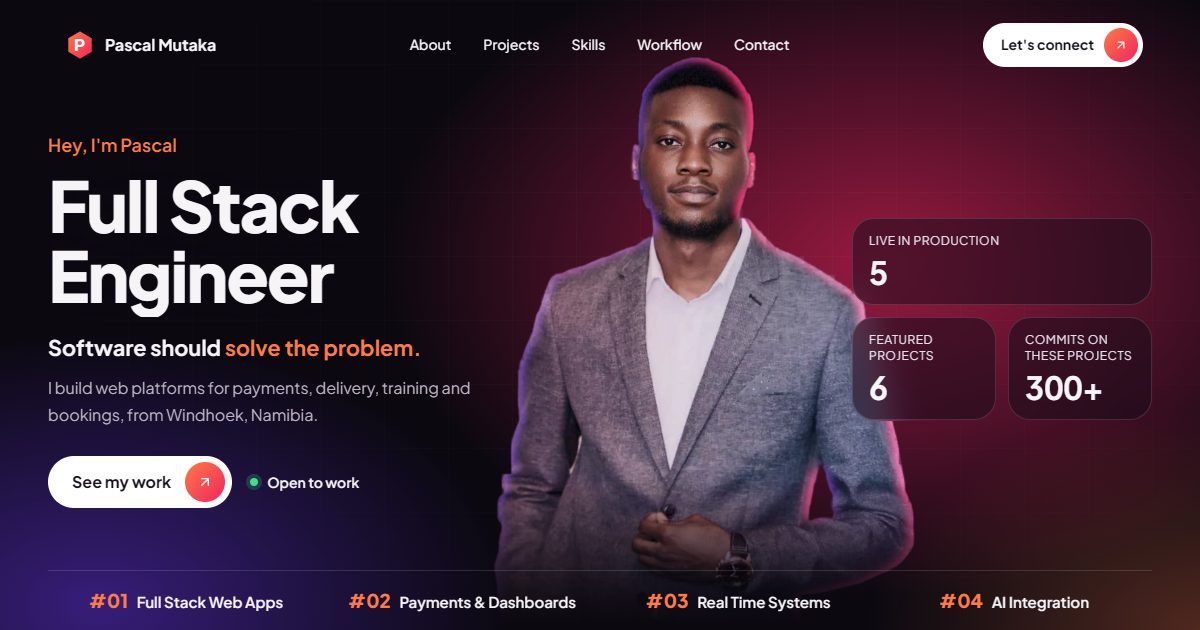
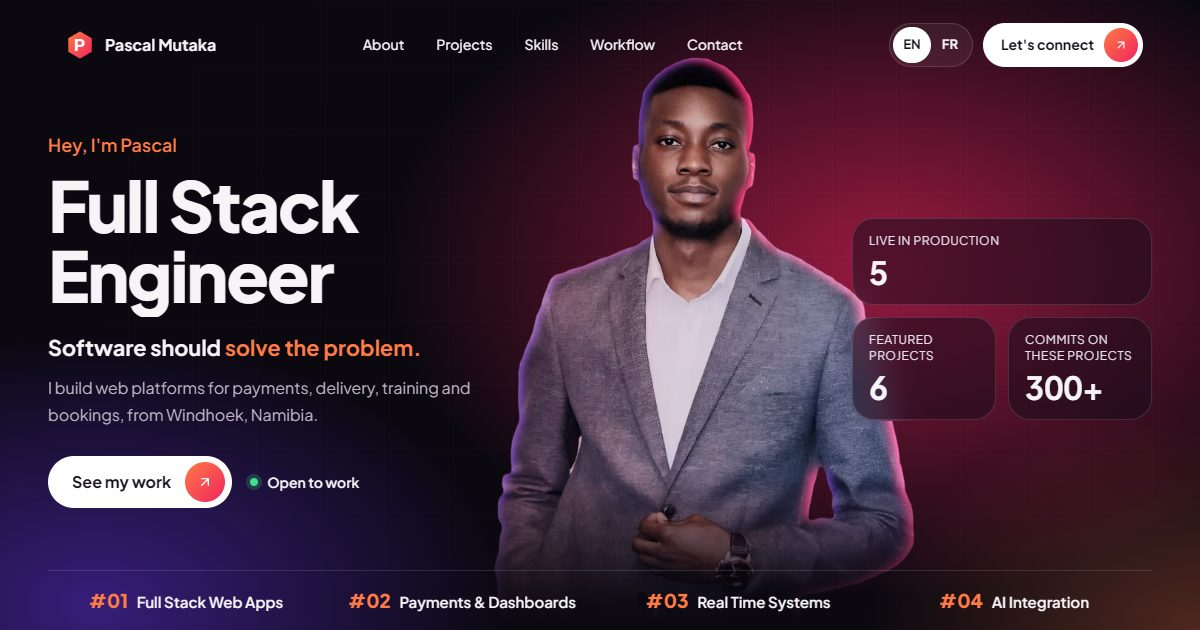
Upgrade portrait to 4K

Changed region(s): [[0.3083, 0.0603, 0.6783, 0.0905], [0.74, 0.0302, 0.8017, 0.1206]]

diff --git a/index.html b/index.html
@@ -15,7 +15,7 @@
   <link rel="preconnect" href="https://fonts.googleapis.com">
   <link rel="preconnect" href="https://fonts.gstatic.com" crossorigin>
   <link href="https://fonts.googleapis.com/css2?family=Plus+Jakarta+Sans:wght@400;500;600;700;800&display=swap" rel="stylesheet">
-  <link rel="preload" as="image" href="assets/img/portrait.webp">
+  <link rel="preload" as="image" href="assets/img/portrait.webp" imagesrcset="assets/img/portrait.webp 1152w, assets/img/portrait-1800.webp 1800w, assets/img/portrait-4k.webp 2765w" imagesizes="(max-width: 760px) 90vw, 110vh">
   <link rel="stylesheet" href="assets/css/style.css">
   <link rel="stylesheet" href="assets/css/motion.css">
   <script>document.documentElement.classList.add('js')</script>
@@ -61,7 +61,7 @@
       <div class="stage__pin" id="pin">
         <div class="stage__bg" aria-hidden="true"></div>
         <div class="stage__portrait" id="portrait">
-          <img src="assets/img/portrait.webp" width="1152" height="1600" alt="Portrait of Pascal Mutaka in a grey blazer and white shirt" fetchpriority="high">
+          <img src="assets/img/portrait.webp" srcset="assets/img/portrait.webp 1152w, assets/img/portrait-1800.webp 1800w, assets/img/portrait-4k.webp 2765w" sizes="(max-width: 760px) 90vw, 110vh" width="2765" height="3840" alt="Portrait of Pascal Mutaka in a grey blazer and white shirt" fetchpriority="high">
         </div>
         <div class="stage__scrim" id="scrim" aria-hidden="true"></div>
 
